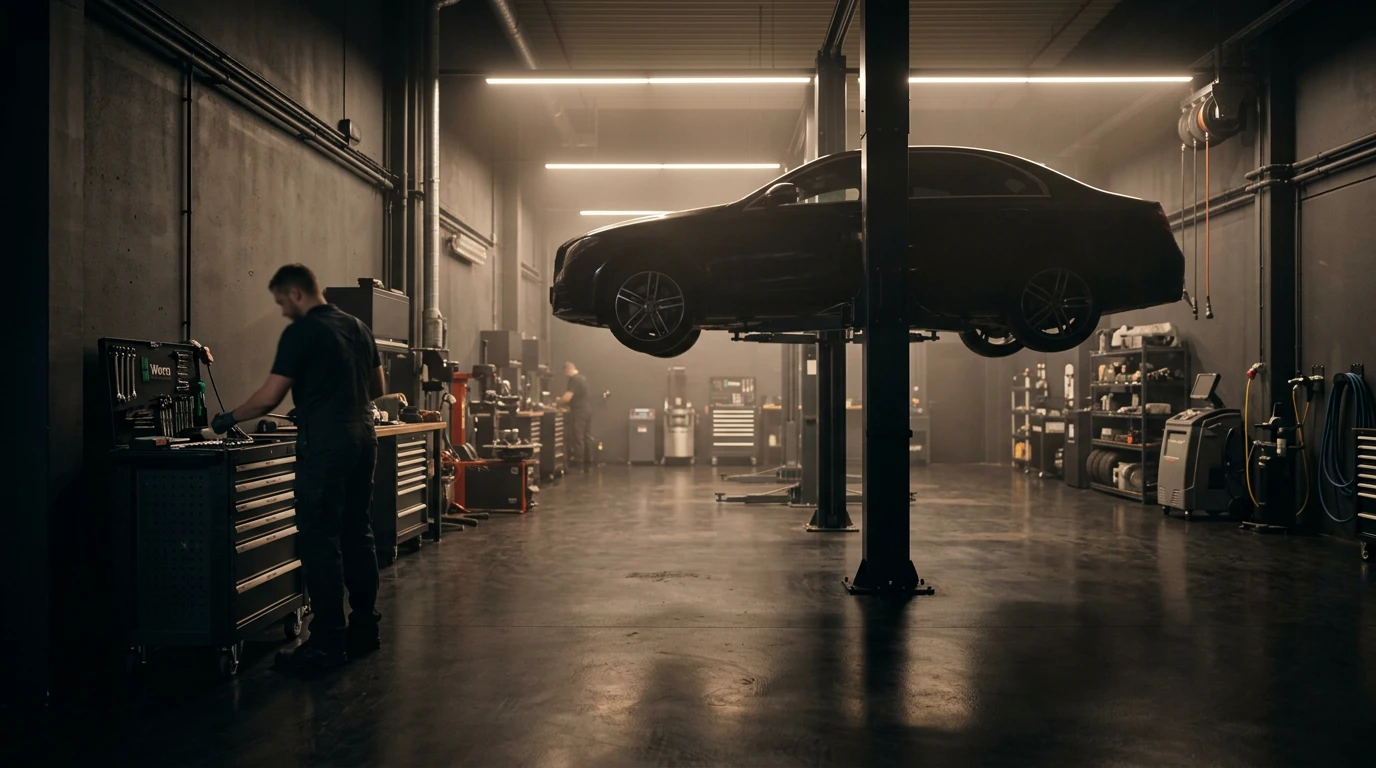
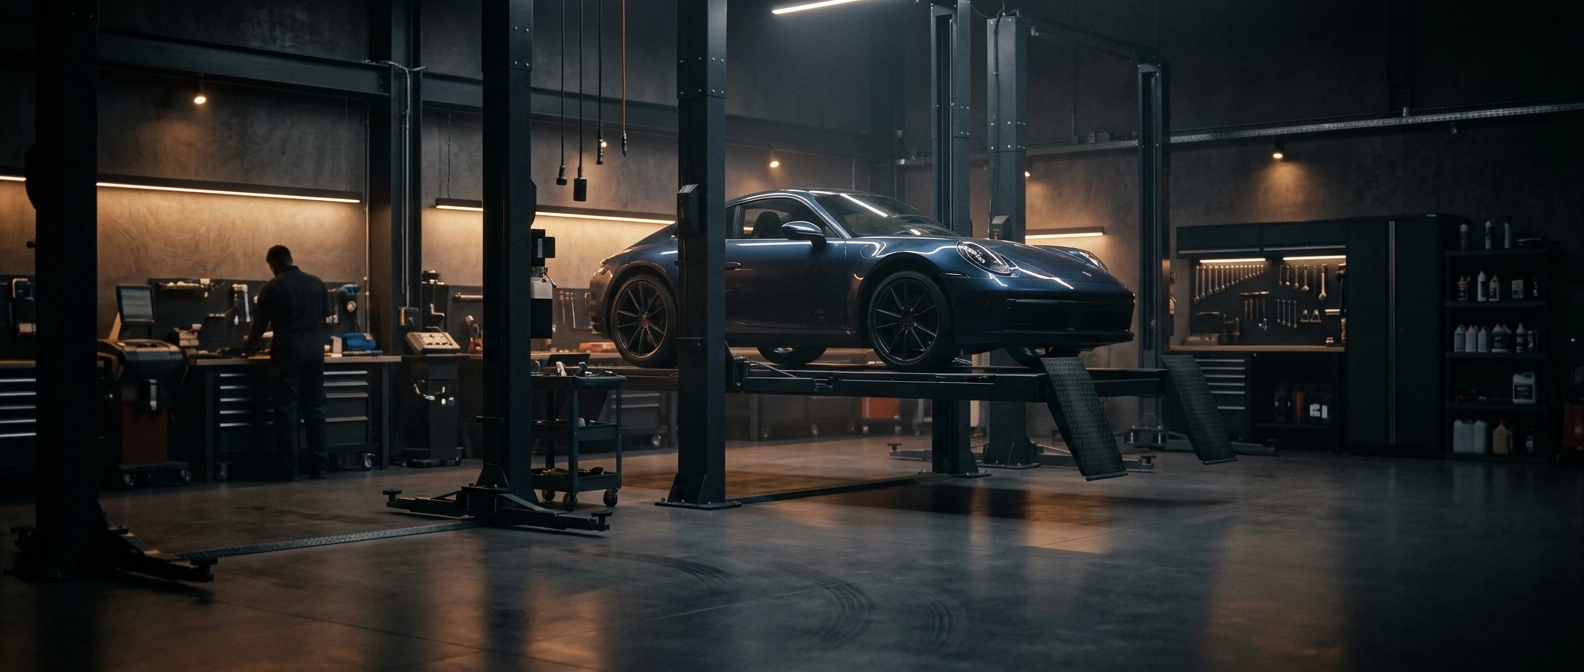
up

diff --git a/src/app/page.tsx b/src/app/page.tsx
@@ -8,13 +8,15 @@ export default function Home() {
   return (
     <>
       <section className="relative isolate w-full min-h-[min(88vh,40rem)] overflow-hidden border-b border-brand-silver/10 sm:min-h-[min(90vh,44rem)]">
+        {/* unoptimized: без /_next/image — иначе после замены hero.webp с тем же именем часто отдаётся старый кэш */}
         <Image
           src="/images/hero/hero.webp"
-          alt={`Автосервис ${site.name} в ${site.city}`}
+          alt={`${site.name}, ${site.tagline} — ${site.city}`}
           fill
           className="object-cover object-center"
           priority
           sizes="100vw"
+          unoptimized
         />
         {/* Затемнение для читаемости текста: слева плотнее, справа фото просвечивает */}
         <div
@@ -30,12 +32,15 @@ export default function Home() {
             <p className="text-sm tracking-[0.22em] text-brand-silver uppercase">
               {site.city} · {site.region}
             </p>
+            <p className="text-sm font-medium text-brand-gold/95 sm:text-base">
+              {site.name} — {site.tagline}
+            </p>
             <h1 className="text-4xl font-semibold tracking-tight text-brand-white sm:text-5xl lg:text-[2.75rem] lg:leading-[1.12] xl:text-5xl xl:leading-tight 2xl:text-6xl 2xl:leading-tight">
-              Автосервис в Мытищах: двигатель, ходовая, ГРМ и ТО
+              Ремонт и обслуживание: двигатель, ходовая, ГРМ и ТО
             </h1>
             <p className="text-lg leading-relaxed text-brand-silver sm:text-xl sm:leading-relaxed">
-              Ремонт и обслуживание с акцентом на двигатель, ГРМ, сцепление и
-              подвеску. Понятная смета, запись на сервис в {site.city}.
+              Акцент на двигатель, ГРМ, сцепление и подвеску. Понятная смета,
+              запись в {site.city}.
             </p>
             <div className="flex flex-wrap gap-4 pt-2">
               <Link
@@ -110,11 +115,10 @@ export default function Home() {
         <div className="mx-auto max-w-6xl px-4 py-16 sm:px-6">
           <div className="rounded-3xl border border-brand-gold/25 bg-brand-gold/5 px-8 py-10 text-center md:px-14">
             <h2 className="text-2xl font-semibold text-brand-white md:text-3xl">
-              Запись в сервис в Мытищах
+              Запись в {site.name} · {site.city}
             </h2>
             <p className="mx-auto mt-3 max-w-2xl text-brand-silver">
-              Позвоните или оставьте заявку на странице контактов — подставим
-              реальные телефон, часы работы и адрес, когда будут готовы.
+              Позвоните или загляните на страницу контактов — подскажем по услугам и времени.
             </p>
             <div className="mt-8 flex flex-wrap justify-center gap-4">
               <a

diff --git a/src/components/Header.tsx b/src/components/Header.tsx
@@ -12,7 +12,7 @@ function BrandMark() {
   const letters = site.name.slice(0, 3).toUpperCase();
   return (
     <span
-      className="flex h-10 w-10 shrink-0 items-center justify-center rounded-xl border border-brand-gold/45 bg-brand-gold/10 text-[0.65rem] font-bold tracking-[0.08em] text-brand-gold"
+      className="flex h-10 w-10 shrink-0 items-center justify-center rounded-xl border border-brand-gold/45 bg-brand-gold/10 text-[0.6rem] font-bold tracking-[0.06em] text-brand-gold"
       aria-hidden
     >
       {letters}
@@ -23,14 +23,14 @@ function BrandMark() {
 export function Header() {
   return (
     <header className="sticky top-0 z-50 border-b border-brand-silver/15 bg-brand-obsidian/90 backdrop-blur-md">
-      <div className="mx-auto flex max-w-6xl flex-col gap-3 px-4 py-3 sm:px-6 md:h-16 md:flex-row md:items-center md:justify-between md:gap-6 md:py-0">
+      <div className="mx-auto flex max-w-6xl flex-col gap-3 px-4 py-3 sm:px-6 md:min-h-16 md:flex-row md:items-center md:justify-between md:gap-6 md:py-2">
         <div className="flex items-center justify-between gap-4 md:justify-start">
           <Link
             href="/"
             className="flex items-center gap-3 text-brand-white transition-colors hover:text-brand-gold"
           >
             <BrandMark />
-            <span className="flex flex-col leading-tight">
+            <span className="flex min-w-0 flex-col leading-tight">
               <span className="text-sm font-semibold tracking-wide">{site.name}</span>
               <span className="text-xs text-brand-silver">{site.city}</span>
             </span>

diff --git a/src/components/Footer.tsx b/src/components/Footer.tsx
@@ -10,6 +10,9 @@ export function Footer() {
           <p className="text-sm font-semibold tracking-wide text-brand-white">
             {site.name}
           </p>
+          <p className="text-xs leading-snug text-brand-silver/95 sm:text-sm">
+            {site.tagline}
+          </p>
           <p className="text-sm leading-relaxed text-brand-silver">
             Техническое обслуживание и ремонт в {site.city}. Двигатель, ГРМ,
             сцепление, подвеска, жидкости и диагностика.
@@ -44,7 +47,7 @@ export function Footer() {
         </div>
       </div>
       <div className="border-t border-brand-silver/10 py-4 text-center text-xs text-brand-silver/80">
-        © {year} {site.name}. {site.city}.
+        © {year} {site.name} — {site.tagline}. {site.city}.
       </div>
     </footer>
   );

diff --git a/src/app/layout.tsx b/src/app/layout.tsx
@@ -17,10 +17,10 @@ const geistMono = Geist_Mono({
 
 export const metadata: Metadata = {
   title: {
-    default: `${site.name} — автосервис в ${site.city}`,
+    default: `${site.name} — ${site.tagline} · ${site.city}`,
     template: `%s · ${site.name} · ${site.city}`,
   },
-  description: `Автосервис в ${site.city}: двигатель, ГРМ, сцепление, подвеска, масла и жидкости, диагностика. ${site.region}.`,
+  description: `${site.name}, ${site.tagline.toLowerCase()} в ${site.city}: двигатель, ГРМ, сцепление, подвеска, масла и жидкости, диагностика. ${site.region}.`,
 };
 
 export default function RootLayout({

diff --git a/src/app/services/[slug]/page.tsx b/src/app/services/[slug]/page.tsx
@@ -18,7 +18,7 @@ export async function generateMetadata({ params }: Props): Promise<Metadata> {
   if (!service) return { title: "Услуга" };
   return {
     title: service.title,
-    description: `${service.summary} ${site.name}, ${site.city}.`,
+    description: `${service.summary} ${site.name} (${site.tagline.toLowerCase()}), ${site.city}.`,
   };
 }
 
@@ -54,7 +54,7 @@ export default async function ServicePage({ params }: Props) {
         </div>
         <div className="space-y-6">
           <PageIntro
-            eyebrow={`${site.city} · ${site.name}`}
+            eyebrow={`${site.name} · ${site.tagline}`}
             title={service.title}
             description={service.summary}
           />

diff --git a/src/app/services/page.tsx b/src/app/services/page.tsx
@@ -7,7 +7,7 @@ import { site } from "@/lib/site";
 
 export const metadata: Metadata = {
   title: "Услуги",
-  description: `Полный перечень работ автосервиса ${site.name} в ${site.city}: двигатель, ГРМ, сцепление, подвеска, жидкости, диагностика.`,
+  description: `Услуги ${site.name} (${site.tagline.toLowerCase()}) в ${site.city}: двигатель, ГРМ, сцепление, подвеска, жидкости, диагностика.`,
 };
 
 export default function ServicesPage() {

diff --git a/src/app/contacts/page.tsx b/src/app/contacts/page.tsx
@@ -5,7 +5,7 @@ import { site } from "@/lib/site";
 
 export const metadata: Metadata = {
   title: "Контакты",
-  description: `Контакты автосервиса ${site.name} в ${site.city}: телефон, адрес, запись на обслуживание.`,
+  description: `Контакты ${site.name} — ${site.tagline.toLowerCase()} в ${site.city}: телефон, адрес, запись.`,
 };
 
 export default function ContactsPage() {

diff --git a/src/lib/site.ts b/src/lib/site.ts
@@ -1,6 +1,8 @@
 export const site = {
-  name: "AMT",
-  tagline: "Автосервис в Мытищах",
+  /** Короткое имя бренда */
+  name: "АТМ",
+  /** Полное название */
+  tagline: "Ателье точной механики",
   city: "Мытищи",
   region: "Московская область",
   addressLine: "1-й Стрелковый переулок, 62",

diff --git a/next.config.ts b/next.config.ts
@@ -2,6 +2,10 @@ import type { NextConfig } from "next";
 
 const nextConfig = {
   output: "standalone",
+  images: {
+    // В dev после замены файла с тем же именем (hero.webp) иначе долго отдаётся кэш `/_next/image`
+    minimumCacheTTL: process.env.NODE_ENV === "development" ? 0 : 60,
+  },
 } satisfies NextConfig;
 
 export default nextConfig;
